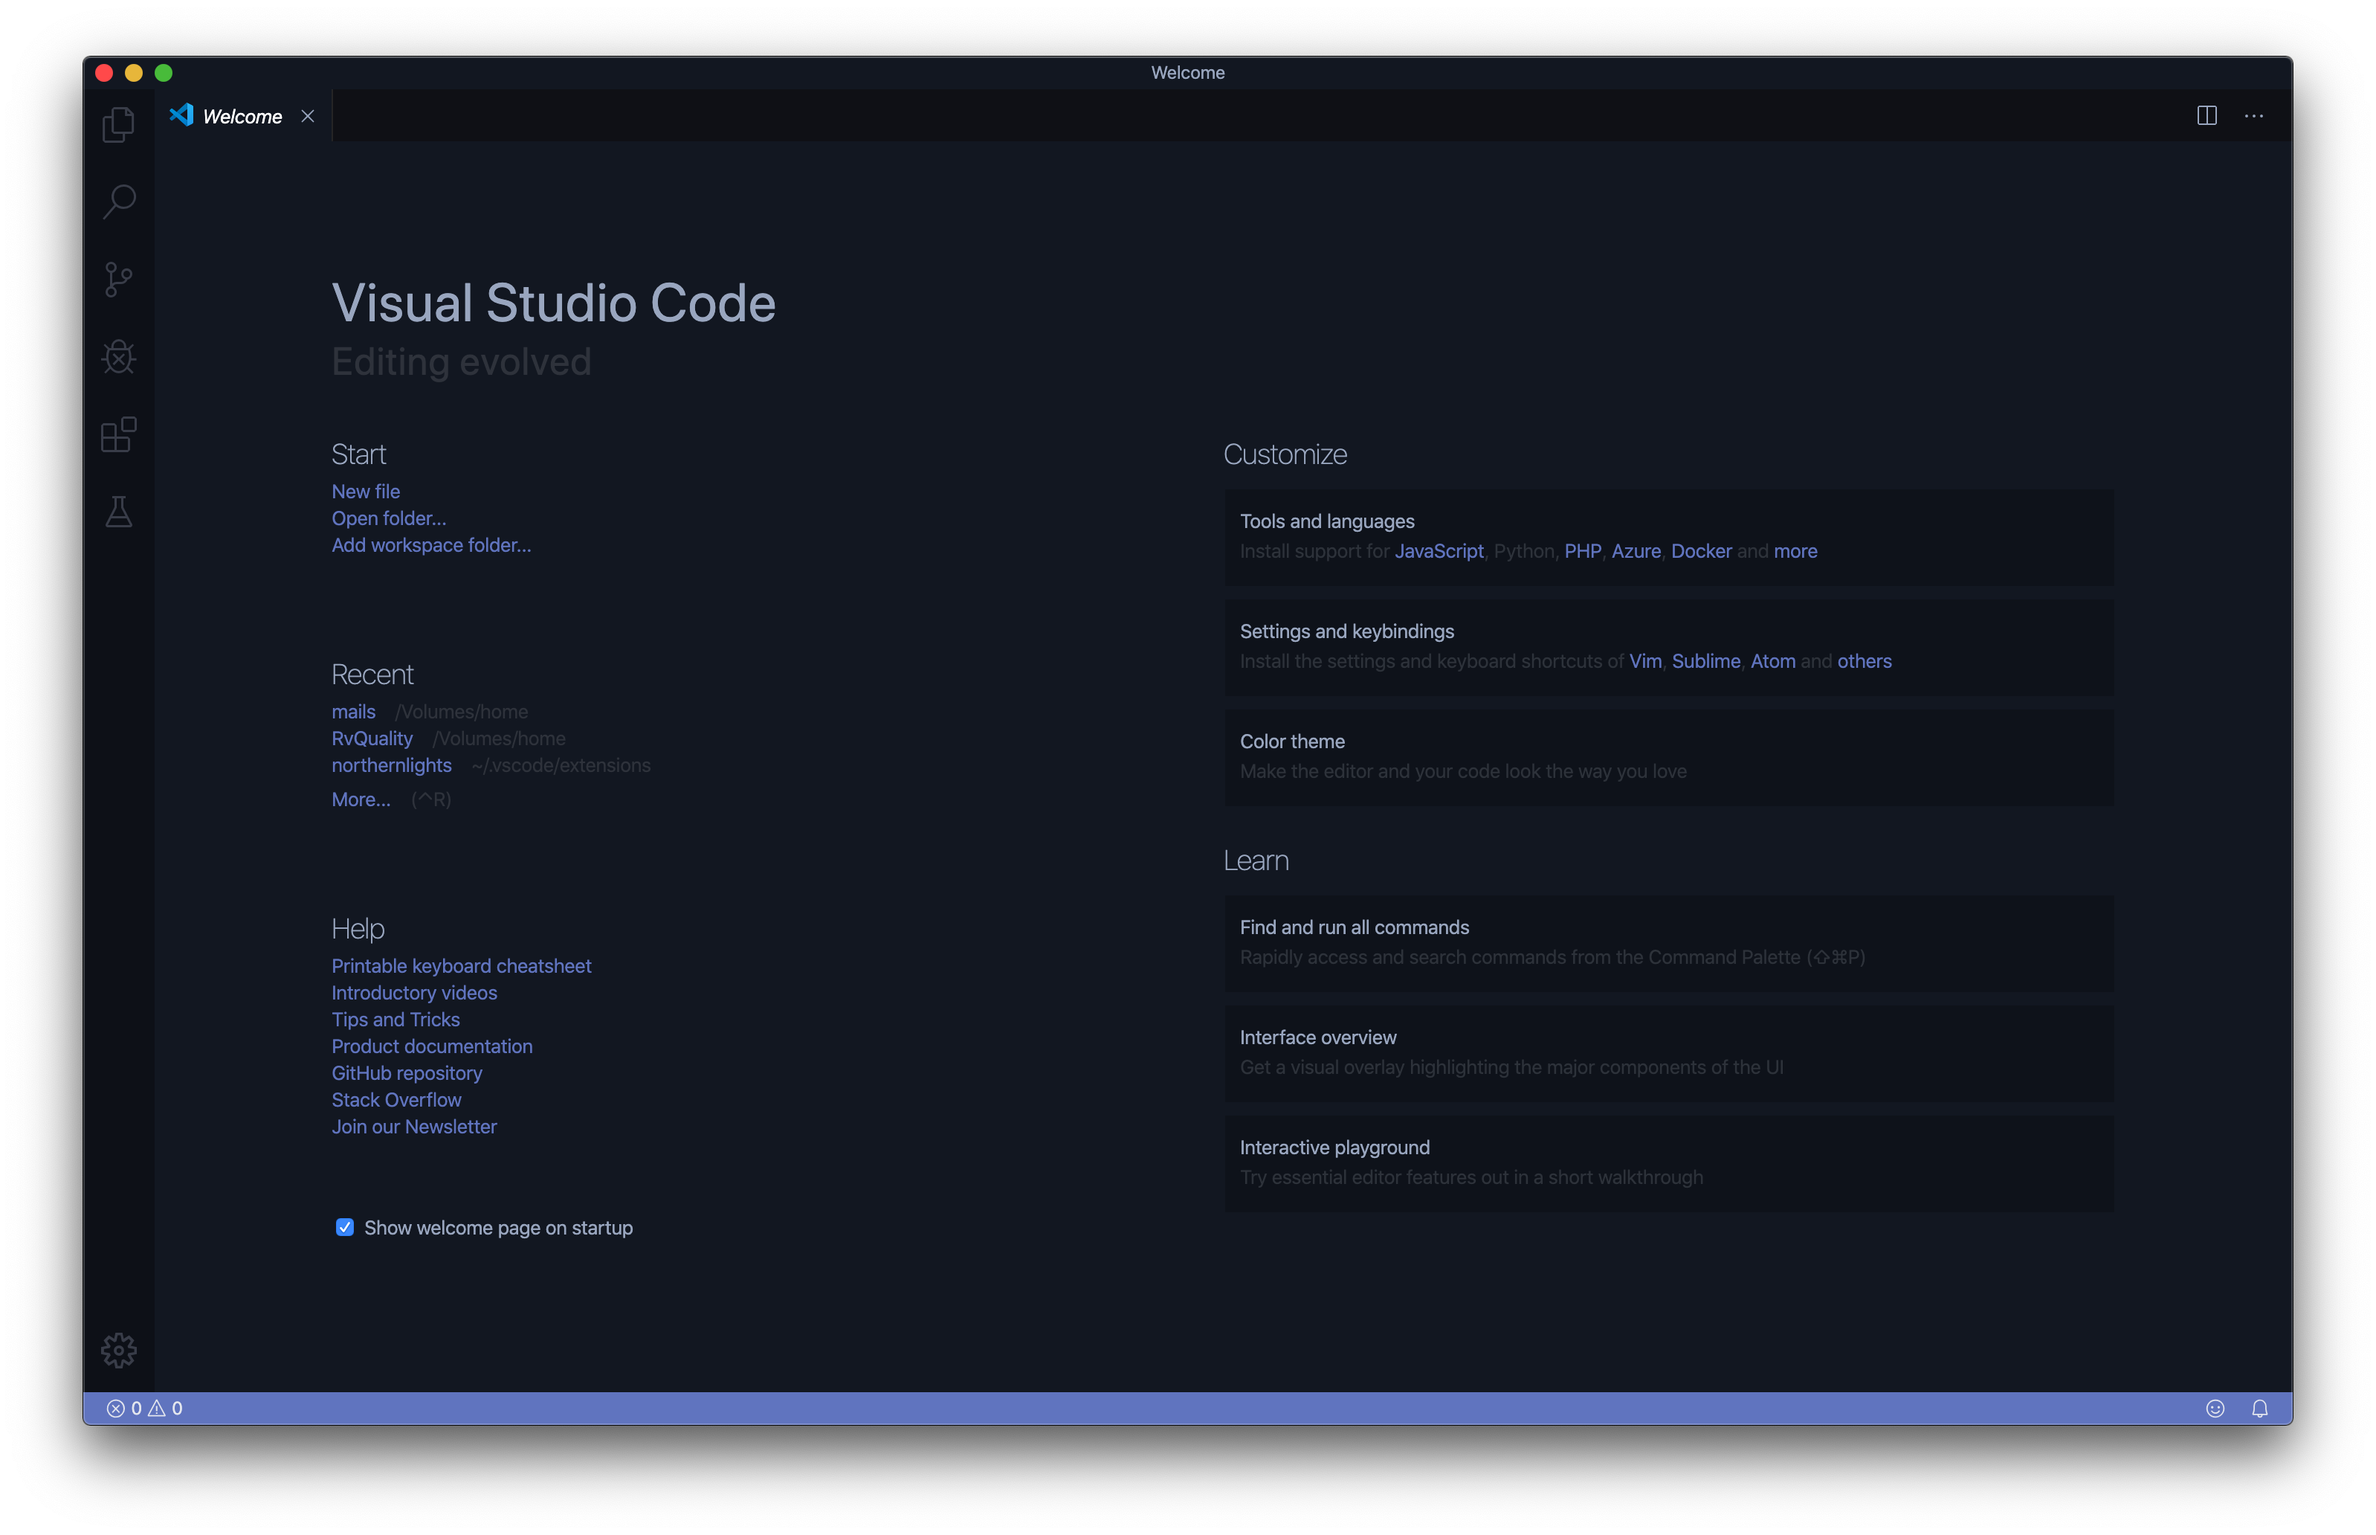
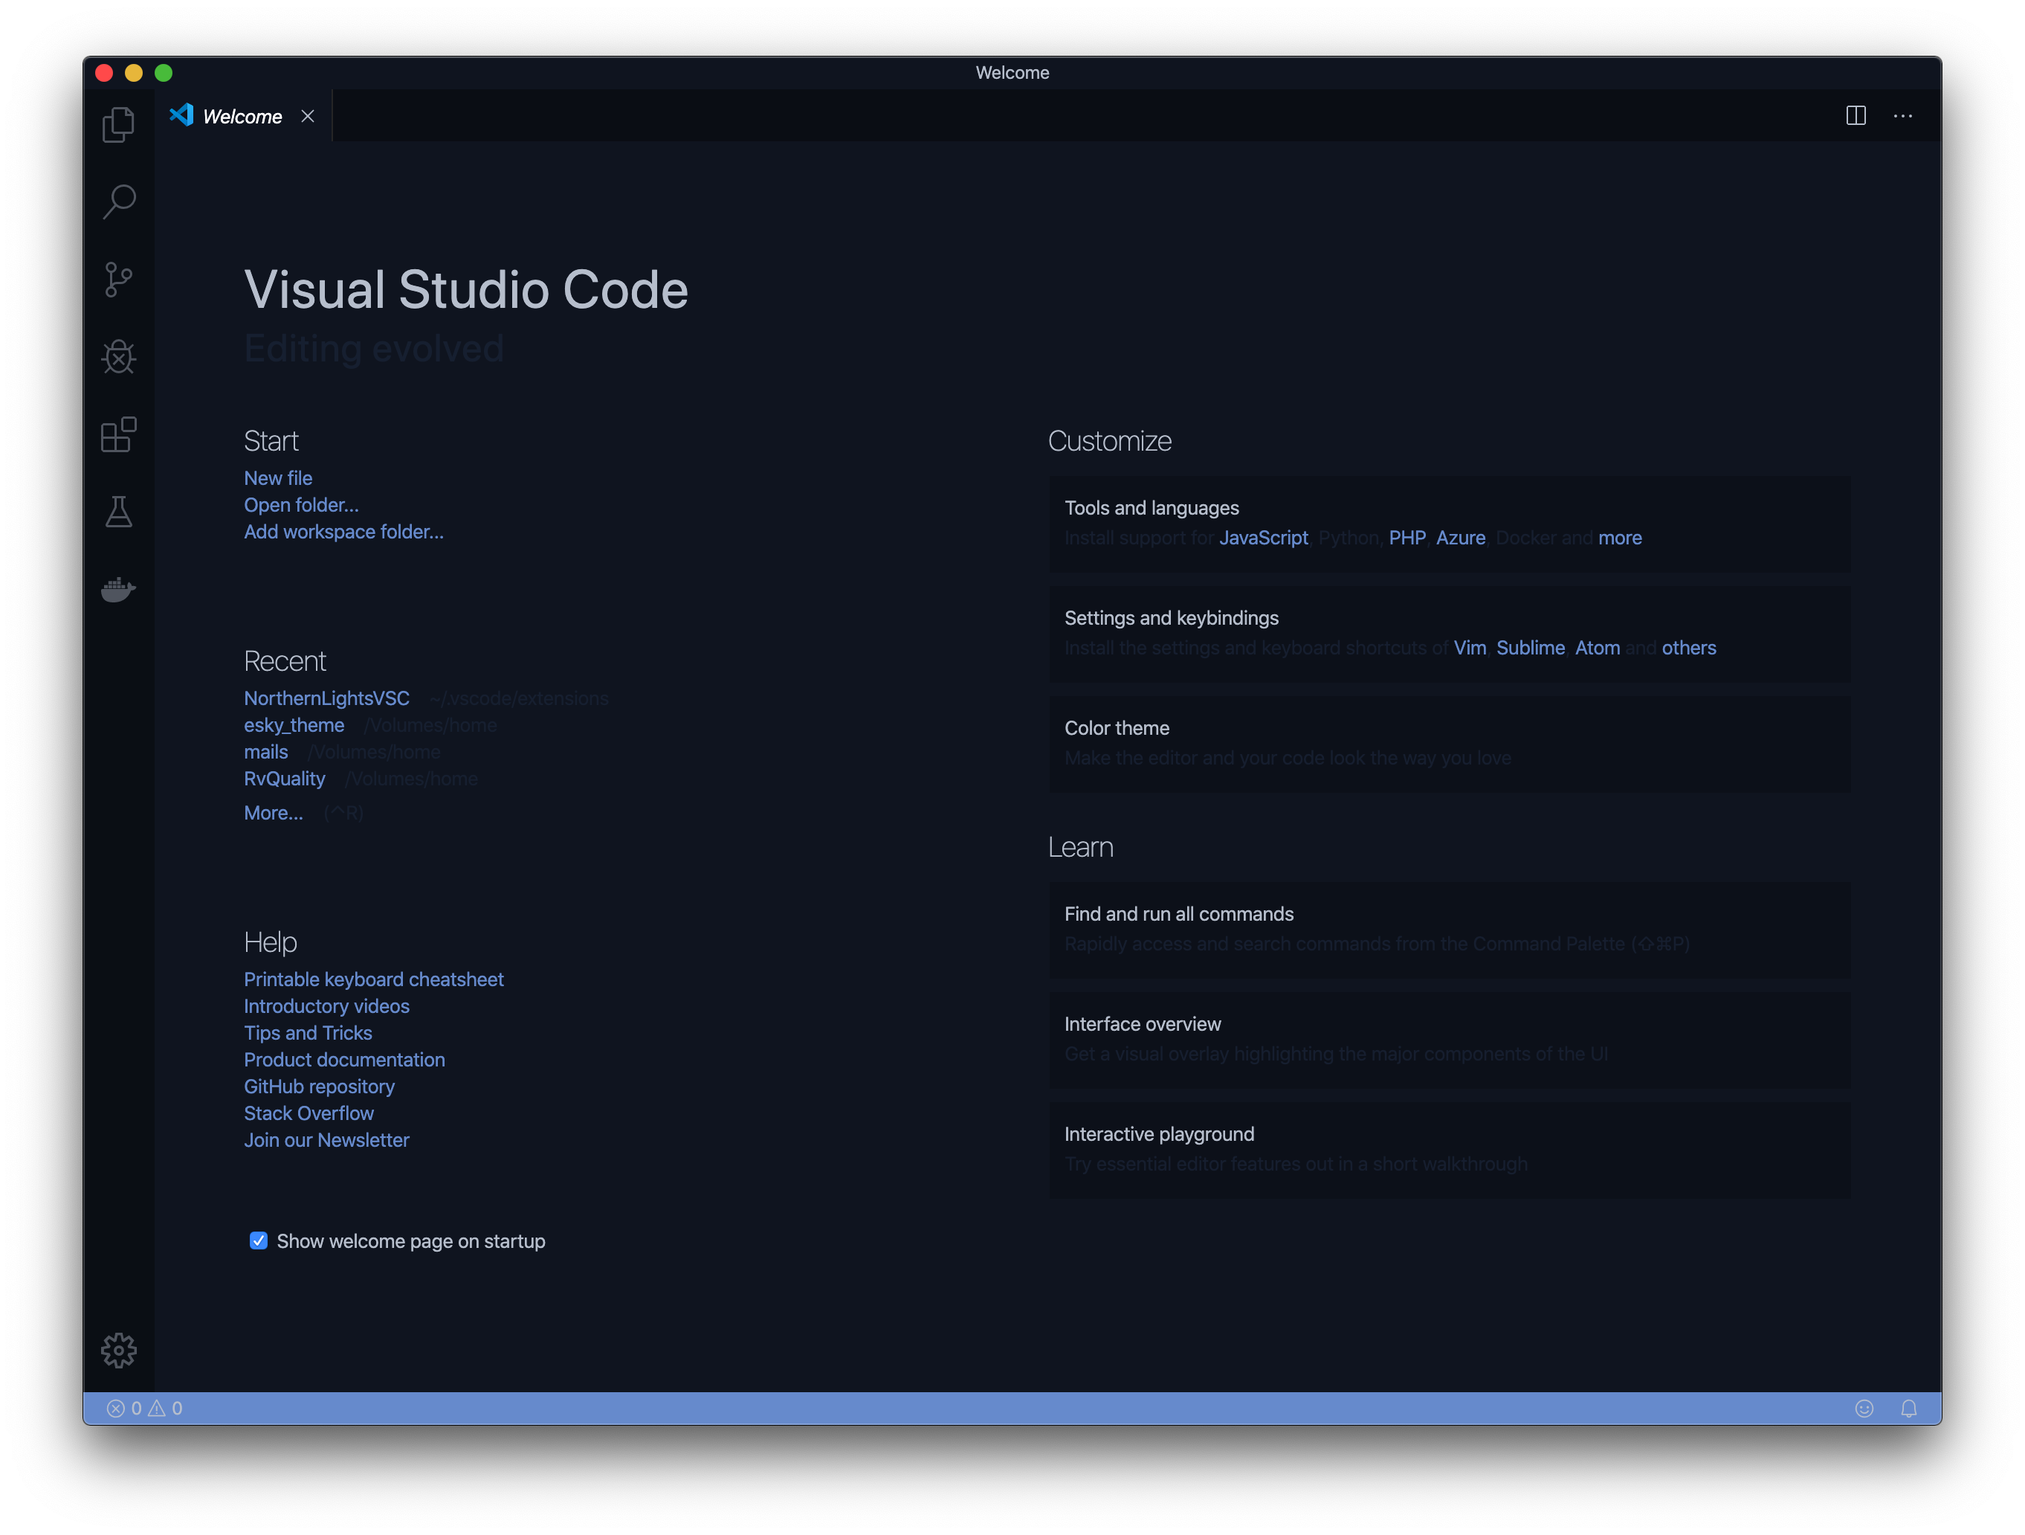
Changed color brightness

diff --git a/CHANGELOG.md b/CHANGELOG.md
@@ -8,6 +8,9 @@ and this project adheres to [Semantic Versioning](https://semver.org/spec/v2.0.0
 - Brighten up white color
 - Slight icon redesign
 
+## [1.0.1] - 2019-12-17
+### Changed
+- Color brightness
 
 ## [1.0.0] - 2019-12-15
 ### Added
@@ -18,9 +21,6 @@ and this project adheres to [Semantic Versioning](https://semver.org/spec/v2.0.0
 
 ### Changed
 - Brighter colors
-
-### Removed
-- Original colors
 
 ## [0.0.1] - 2019-06-13
 ### Added

diff --git a/README.md b/README.md
@@ -29,3 +29,7 @@ git clone https://github.com/eskilop/NorthernLightsVSC.git %USERPROFILE%\.vscode
 ```
 
 To see it listed in your themes, reload your current vscode window (open command palette > reload window)
+
+### Having problems/suggestions? Join The discord server!
+<iframe src="https://discordapp.com/widget?id=592591034350043146&theme=dark" width="75%" height="200" allowtransparency="true" frameborder="0"></iframe>
+
